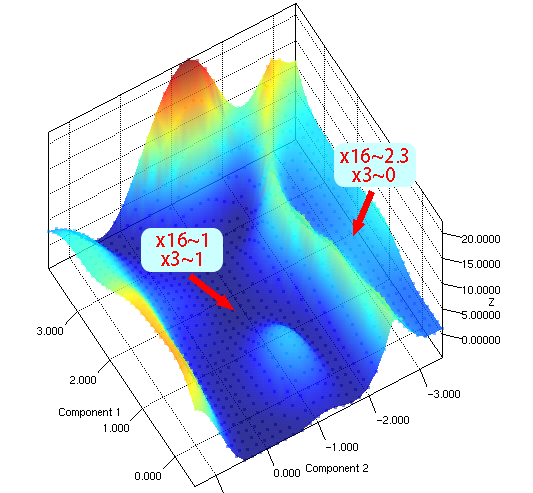
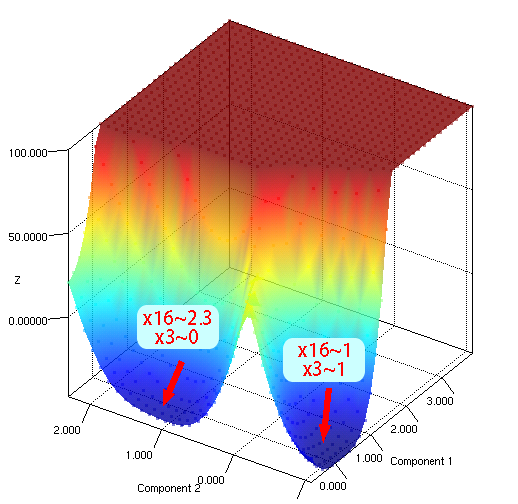
update

diff --git a/model.html b/model.html
@@ -129,7 +129,7 @@
 
 <p>A two-gene network with mutual inhibitions and self-loops.</p>
 
-<center><img class="figure" src="images/2geneNetwork.png" style="width:400px; height:400px"></center><br><br>
+<center><img class="figure" src="images/2geneNetwork.png" ></center><br><br>
 
 <strong>Probabilistic landscape</strong>
 
@@ -154,7 +154,7 @@
 <strong>Probabilistic landscape</strong>
 
 <p>Probabilistic landscape visualized by mapping to two marker genes (the result is saved in "saved results/seesawPro")</p>
-<p>Parameters: Boundary=3, number of simulations=100, time=128, focus genes=all genes</p>
+<p>Parameters: Boundary=3, number of simulations=200, time=128, focus genes=all genes</p>
 <center><img class="figure" src="images/seesawPro.png" ></center><br><br>
 
 <p>Probabilistic landscape visualized using GPDM (the result is saved in "saved results/seesawGPDM")</p>
